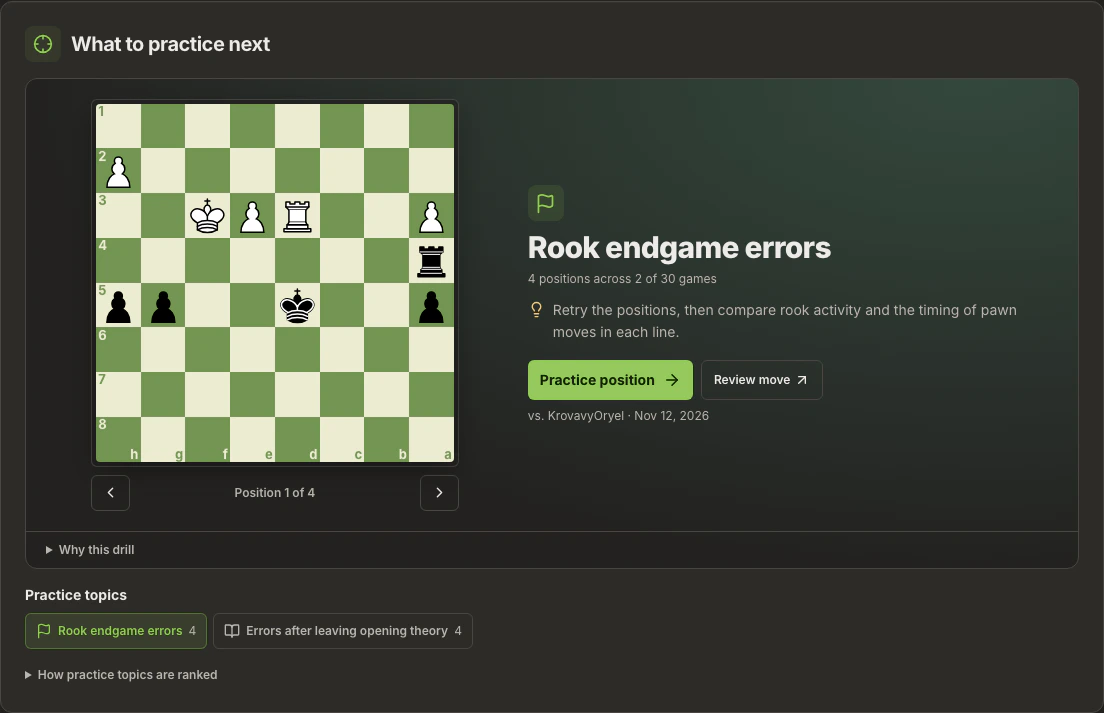
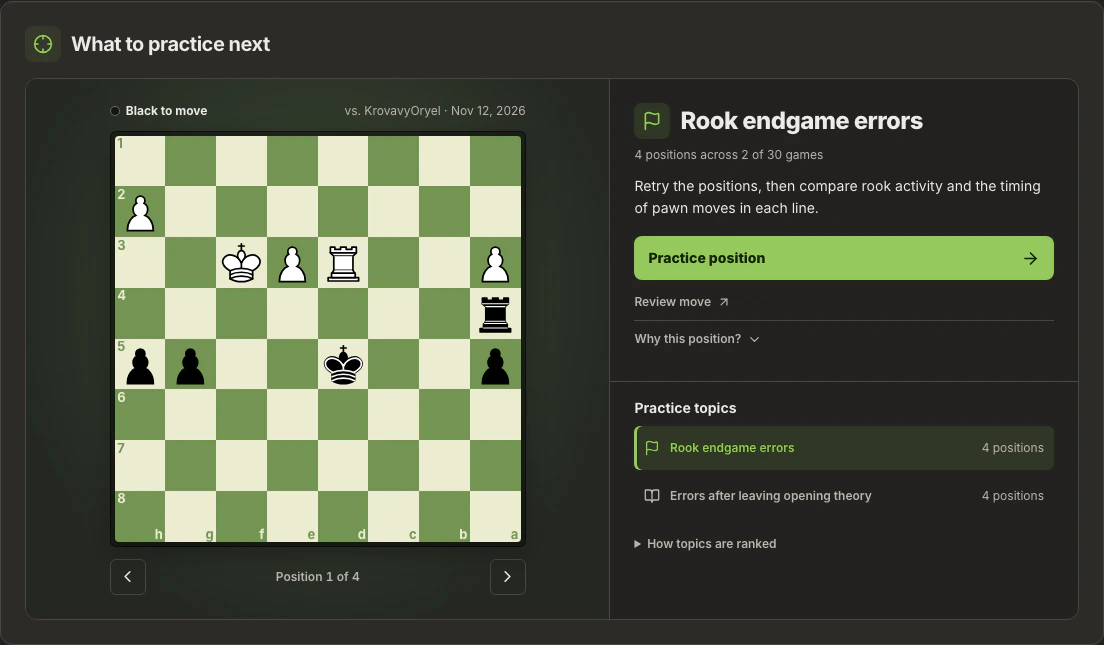
Redesign practice around saved chess positions

diff --git a/components/analytics/PracticePlan.tsx b/components/analytics/PracticePlan.tsx
@@ -1,6 +1,6 @@
 import { useMemo, useState } from 'react';
 import {
-  ArrowRight, ArrowUpRight, BookOpen, ChevronLeft, ChevronRight, Crosshair, Flag, GitFork, Lightbulb,
+  ArrowRight, ArrowUpRight, BookOpen, ChevronDown, ChevronLeft, ChevronRight, Crosshair, Flag, GitFork,
   Pin, ShieldAlert, Swords, Target, type LucideIcon,
 } from 'lucide-react';
 import { dateLabel } from '@/lib/analytics/history';
@@ -31,31 +31,33 @@ export function PracticePlan({ rows, onReview }: { rows: SampleGame[]; onReview:
   return (
     <Section title="What to practice next" icon={<Crosshair size={20} />} className="practice-workspace">
       {selected ? (
-        <>
+        <div className="practice-layout">
           <PracticeFocus key={selected.pattern} topic={selected} gameCount={rows.length} onReview={onReview} />
-          {ranked.length > 1 && <div className="practice-topics">
-            <h3>Practice topics</h3>
-            <ul>
-              {ranked.map((topic) => {
-                const Icon = topicIcons[topic.pattern];
-                return (
-                  <li key={topic.pattern}>
-                    <button type="button" aria-pressed={selected.pattern === topic.pattern}
-                      onClick={() => setPattern(topic.pattern)}>
-                      <Icon size={16} aria-hidden="true" />
-                      <span>{topic.title}</span>
-                      <span className="practice-topic-count">{topic.items.length}</span>
-                    </button>
-                  </li>
-                );
-              })}
-            </ul>
-          </div>}
-          <details className="analytics-explainer">
-            <summary>How practice topics are ranked</summary>
-            <p>The order uses modeled points lost, frequency, and confidence. Points lost compare the move played with Stockfish’s best move. Possible patterns receive less weight.</p>
-          </details>
-        </>
+          {ranked.length > 1 && (
+            <div className="practice-topics">
+              <h3>Practice topics</h3>
+              <ul>
+                {ranked.map((topic) => {
+                  const Icon = topicIcons[topic.pattern];
+                  return (
+                    <li key={topic.pattern}>
+                      <button type="button" aria-pressed={selected.pattern === topic.pattern}
+                        onClick={() => setPattern(topic.pattern)}>
+                        <Icon size={16} aria-hidden="true" />
+                        <span className="practice-topic-title">{topic.title}</span>
+                        <span className="practice-topic-count">{topic.items.length} positions</span>
+                      </button>
+                    </li>
+                  );
+                })}
+              </ul>
+              <details className="analytics-explainer">
+                <summary>How topics are ranked</summary>
+                <p>The ranking weighs points lost, frequency, and confidence. Points lost compare your move with Stockfish’s best move.</p>
+              </details>
+            </div>
+          )}
+        </div>
       ) : <Empty>Analyze more games or broaden your filters. A pattern needs to appear in at least two games.</Empty>}
     </Section>
   );
@@ -71,53 +73,56 @@ function PracticeFocus({ topic, gameCount, onReview }: { topic: Recommendation; 
   const rival = game.color === 'w' ? game.row.game.black.name : game.row.game.white.name;
 
   return (
-    <div className="practice-focus">
-      <div className="practice-main">
-        <div className="practice-focus-copy">
-          <span className="practice-topic-icon" aria-hidden="true"><Icon size={21} /></span>
-          <h3>{topic.title}</h3>
-          <p className="practice-count">
-            {topic.items.length} positions across {topic.gameCount} of {gameCount} games{topic.confidence === 'possible' && ' · Possible pattern'}
-          </p>
-          <p className="practice-instruction">
-            <Lightbulb size={17} aria-hidden="true" /><span>{topic.drill}</span>
-          </p>
-          <div className="practice-cta">
-            <button type="button" className="practice-start" disabled={!detail}
-              onClick={() => onReview(game.row, game.color, evidence.ply, true)}>
-              Practice position <ArrowRight size={18} aria-hidden="true" />
-            </button>
-            <button type="button" className="practice-review" disabled={!detail} onClick={() => onReview(game.row, game.color, evidence.ply)}>
-              Review move <ArrowUpRight size={16} aria-hidden="true" />
-            </button>
-          </div>
-          <p className="practice-game-caption">vs. {rival} · {dateLabel(game.date)}</p>
+    <>
+      <div className="practice-position">
+        <div className="practice-position-heading">
+          <span className="practice-turn"><span aria-hidden="true" data-color={game.color} />{game.color === 'w' ? 'White' : 'Black'} to move</span>
+          <span className="min-w-0 break-words text-right text-xs text-muted" aria-live="polite">vs. {rival} · {dateLabel(game.date)}</span>
         </div>
-        <div className="practice-visual">
-          <SavedPosition fen={fen} color={game.color} />
-          <div className="practice-position-nav" aria-label="Choose a practice position" role="group">
-            <button type="button" className="analytics-action" aria-label="Previous position"
-              onClick={() => setPositionIndex(index - 1)} disabled={index === 0}>
-              <ChevronLeft size={17} aria-hidden="true" />
-            </button>
-            <span aria-live="polite">Position {index + 1} of {topic.items.length}</span>
-            <button type="button" className="analytics-action" aria-label="Next position"
-              onClick={() => setPositionIndex(index + 1)} disabled={index + 1 === topic.items.length}>
-              <ChevronRight size={17} aria-hidden="true" />
-            </button>
-          </div>
+        <SavedPosition fen={fen} color={game.color} />
+        <div className="practice-position-nav" aria-label="Choose a practice position" role="group">
+          <button type="button" className="analytics-action" aria-label="Previous position"
+            onClick={() => setPositionIndex(index - 1)} disabled={index === 0}>
+            <ChevronLeft size={19} aria-hidden="true" />
+          </button>
+          <span aria-live="polite">Position {index + 1} of {topic.items.length}</span>
+          <button type="button" className="analytics-action" aria-label="Next position"
+            onClick={() => setPositionIndex(index + 1)} disabled={index + 1 === topic.items.length}>
+            <ChevronRight size={19} aria-hidden="true" />
+          </button>
         </div>
       </div>
-      <details className="practice-evidence">
-        <summary>Why this drill</summary>
-        <p>{topic.why}</p>
-        <p><strong>{evidence.notation}</strong> · {evidence.detail}</p>
-        <StatStrip entries={[
-          ['Points lost here', num(evidence.loss, 3)],
-          ['Avg. points lost', num(topic.average, 3)],
-          ['Total points lost', num(topic.total, 2)],
-        ]} />
-      </details>
-    </div>
+      <div className="practice-task">
+        <div className="practice-task-heading">
+          <span className="practice-topic-icon" aria-hidden="true"><Icon size={20} /></span>
+          <h3>{topic.title}</h3>
+        </div>
+        <p className="practice-count">
+          {topic.items.length} positions across {topic.gameCount} of {gameCount} games{topic.confidence === 'possible' && ' · Possible pattern'}
+        </p>
+        <p className="practice-instruction">{topic.drill}</p>
+        <button type="button" className="practice-start" disabled={!fen}
+          onClick={() => onReview(game.row, game.color, evidence.ply, true)}>
+          Practice position <ArrowRight size={19} aria-hidden="true" />
+        </button>
+        <div className="practice-links">
+          <button type="button" className="practice-review" disabled={!fen} onClick={() => onReview(game.row, game.color, evidence.ply)}>
+            Review move <ArrowUpRight size={14} aria-hidden="true" />
+          </button>
+          <details key={JSON.stringify([game.row.id, evidence.ply])} className="practice-evidence">
+            <summary>Why this position? <ChevronDown size={15} className="analytics-chevron" aria-hidden="true" /></summary>
+            <div>
+              <p>{topic.why}</p>
+              <p><strong>{evidence.notation}</strong> · {evidence.detail}</p>
+              <StatStrip entries={[
+                ['Points lost here', num(evidence.loss, 3)],
+                ['Avg. points lost', num(topic.average, 3)],
+                ['Total points lost', num(topic.total, 2)],
+              ]} />
+            </div>
+          </details>
+        </div>
+      </div>
+    </>
   );
 }

diff --git a/app/globals.css b/app/globals.css
@@ -775,34 +775,62 @@ a {
   .saved-position .board-shell { --board-size: 100%; }
   .saved-position-placeholder { @apply grid size-full place-items-center p-3 text-center text-xs text-muted; }
 
-  .practice-focus { @apply overflow-hidden rounded-xl border border-line; background: radial-gradient(ellipse at 90% 0%, #34483d, transparent 70%), var(--color-bg); }
-  .practice-main { @apply grid gap-4 p-4 md:grid-cols-[minmax(0,0.95fr)_minmax(0,1.1fr)] md:items-center lg:gap-6 lg:p-5; }
-  .practice-visual { @apply grid min-w-0 gap-2 md:col-start-1 md:row-start-1; }
-  .practice-visual .saved-position { @apply max-w-[16rem] md:max-w-[23rem]; }
-  .practice-visual .practice-position-nav { @apply max-w-[16rem] md:max-w-[23rem]; }
-  .practice-position-nav { @apply mx-auto flex w-full max-w-[23rem] items-center justify-between gap-1 text-xs font-semibold text-muted; }
-  .practice-focus-copy { @apply min-w-0 md:col-start-2 md:row-start-1; }
-  .opening-review:disabled, .practice-start:disabled, .practice-review:disabled { opacity: .55; }
-  .practice-topic-icon { @apply grid size-9 place-items-center rounded-lg text-accent-strong; background: #81b64c22; }
-  .practice-focus-copy h3 { @apply mt-2 text-xl leading-tight font-extrabold tracking-tight sm:text-3xl; }
-  .practice-count { @apply mt-1 text-xs text-muted; }
-  .practice-instruction { @apply mt-3 flex items-start gap-2 text-sm leading-relaxed text-muted; }
-  .practice-instruction svg { @apply mt-0.5 shrink-0 text-[#e8ca8c]; }
-  .practice-cta { @apply mt-4 flex flex-wrap items-center gap-2; }
-  .practice-start { @apply inline-flex min-h-10 flex-1 items-center justify-between gap-2 rounded-md px-3 py-2 text-sm font-bold sm:flex-none; background: #95c95d; color: #18210e; }
-  .practice-start:hover:not(:disabled) { background: #a9d97b; }
-  .practice-review { @apply inline-flex min-h-10 items-center justify-center gap-1 rounded-md border border-line px-2 py-2 text-xs font-semibold text-fg hover:bg-surface-3 sm:px-3; }
-  .practice-game-caption { @apply mt-2 text-xs text-muted; }
-  .practice-evidence { @apply border-t border-line px-4 py-2.5 text-xs text-muted lg:px-5; }
-  .practice-evidence > summary { @apply w-fit cursor-pointer font-semibold hover:text-fg; }
-  .practice-evidence > p { @apply mt-2 leading-relaxed; }
-  .practice-evidence > dl { @apply mt-2 mb-1; }
-  .practice-topics { @apply mt-4; }
-  .practice-topics h3 { @apply mb-2 text-sm font-bold; }
-  .practice-topics ul { @apply flex flex-wrap gap-1.5; }
-  .practice-topics button { @apply inline-flex min-h-9 items-center gap-1.5 rounded-md border border-line px-2.5 py-1.5 text-xs font-semibold text-muted hover:bg-surface-3; }
-  .practice-topics button[aria-pressed='true'] { @apply text-accent-strong; border-color: #81b64c66; background: #81b64c22; }
-  .practice-topic-count { @apply font-normal tabular-nums text-muted; }
+  .opening-review:disabled { opacity: .55; }
+
+  .practice-layout {
+    @apply grid min-w-0 overflow-hidden rounded-xl border border-line bg-bg md:grid-cols-[minmax(0,1.25fr)_minmax(0,1fr)] md:grid-rows-[auto_1fr];
+  }
+  .practice-position {
+    @apply grid min-w-0 content-center gap-3 border-b border-line p-3.5 sm:p-5 md:row-span-2 md:border-r md:border-b-0 lg:p-6;
+    background: radial-gradient(ellipse at 50% 40%, #3b4932, transparent 76%), #242822;
+  }
+  .practice-position-heading,
+  .practice-position-nav {
+    @apply mx-auto flex w-full max-w-[26rem] items-center justify-between gap-2;
+  }
+  .practice-position .saved-position { @apply max-w-[26rem] border-black/50 bg-black/35; }
+  .practice-turn { @apply inline-flex shrink-0 items-center gap-1.5 text-xs font-bold text-fg; }
+  .practice-turn > span {
+    @apply size-2.5 rounded-full border border-white/35;
+    background: #f1ead8;
+  }
+  .practice-turn > span[data-color='b'] { background: #131612; }
+  .practice-position-nav { @apply text-xs font-semibold text-muted tabular-nums; }
+  .practice-position-nav button { @apply size-9 p-0; }
+
+  .practice-task { @apply min-w-0 p-4 sm:p-5 lg:p-6; }
+  .practice-task-heading { @apply flex items-center gap-2.5; }
+  .practice-topic-icon { @apply grid size-9 shrink-0 place-items-center rounded-lg bg-accent/15 text-accent-strong; }
+  .practice-task-heading h3 { @apply text-xl leading-tight font-extrabold tracking-tight break-words sm:text-2xl; }
+  .practice-count { @apply mt-2 text-xs text-muted; }
+  .practice-instruction { @apply mt-3 text-sm leading-relaxed text-fg; }
+  .practice-start {
+    @apply mt-4 flex min-h-11 w-full items-center justify-between gap-2 rounded-lg bg-accent-strong px-3.5 py-2 text-sm font-extrabold text-[#18210e];
+  }
+  .practice-start:hover:not(:disabled) { @apply bg-[#a9d97b]; }
+  .practice-start:disabled, .practice-review:disabled { opacity: .55; }
+  .practice-links { @apply mt-1 text-xs text-muted; }
+  .practice-review, .practice-evidence > summary {
+    @apply flex min-h-9 w-fit items-center gap-1.5 text-left font-semibold hover:text-fg;
+  }
+  .practice-evidence { @apply border-t border-line; }
+  .practice-evidence > summary { @apply cursor-pointer list-none; }
+  .practice-evidence > summary::-webkit-details-marker { display: none; }
+  .practice-evidence > div { @apply mt-1 grid gap-2 rounded-lg border border-line bg-surface p-3 leading-relaxed; }
+  .practice-evidence .analytics-stat-strip { @apply border-t border-line pt-2; }
+
+  .practice-topics { @apply min-w-0 border-t border-line px-4 pt-4 pb-3 sm:px-5 lg:px-6; }
+  .practice-topics h3 { @apply mb-2 text-sm font-bold text-fg; }
+  .practice-topics ul { @apply grid gap-1; }
+  .practice-topics button {
+    @apply grid min-h-11 w-full grid-cols-[1.1rem_minmax(0,1fr)_auto] items-center gap-2 rounded-md px-2.5 py-2 text-left text-xs font-semibold text-muted hover:bg-surface-2 hover:text-fg;
+  }
+  .practice-topics button[aria-pressed='true'] {
+    @apply bg-accent/15 text-accent-strong;
+    box-shadow: inset 3px 0 var(--color-accent-strong);
+  }
+  .practice-topic-title { @apply break-words; }
+  .practice-topic-count { @apply text-right font-normal whitespace-nowrap text-muted tabular-nums; }
   .analytics-explainer { @apply mt-3 text-xs leading-relaxed text-muted; }
   .analytics-explainer summary { @apply w-fit cursor-pointer py-1 font-semibold hover:text-fg; }
   .analytics-explainer p { @apply mt-1 max-w-2xl; }

diff --git a/README.md b/README.md
@@ -53,9 +53,11 @@ Browse the openings you actually play. Filter by opening name or ECO code and sp
 
 ### What to practice next
 
-**Weaknesses** finds recurring patterns supported by engine lines in at least two games. Pick a topic and browse the original positions. **Practice position** lets you try a better move before revealing the answer. **Review move** opens the same position in Game Review.
+**Weaknesses** finds recurring patterns supported by engine lines in at least two games. Choose a practice topic and use the arrows below the board to browse positions from your games. The board shows whose turn it is and which game the position came from.
 
-![Practice view with a recurring weakness, a position from a saved game, and practice and review buttons](docs/screenshots/practice-plan.webp)
+Select **Practice position** to try a better move before seeing the answer, or **Review move** to open the original move in Game Review. Expand **Why this position?** to see what happened and how much the move cost.
+
+![Practice view showing a rook endgame position, whose turn it is, and a list of recurring practice topics](docs/screenshots/practice-plan.webp)
 
 ### Bulk Analysis
 

diff --git a/AGENTS.md b/AGENTS.md
@@ -1,0 +1,3 @@
+# Repository instructions
+
+When a change affects a feature described or shown in the README, update the relevant README text and capture new screenshots of the affected screens from the running app. Include the README and screenshot updates with the feature change.
